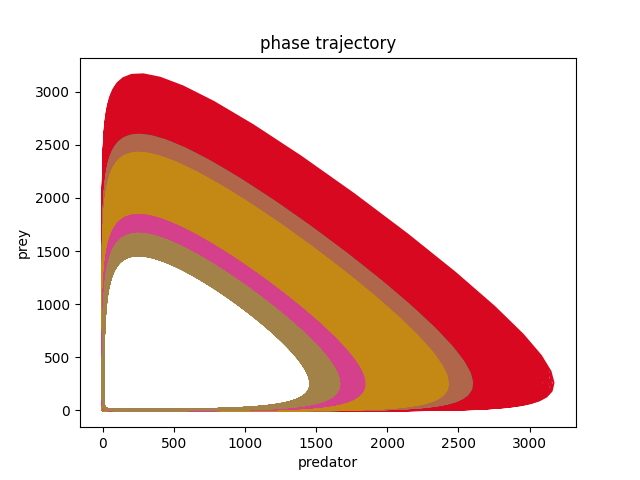
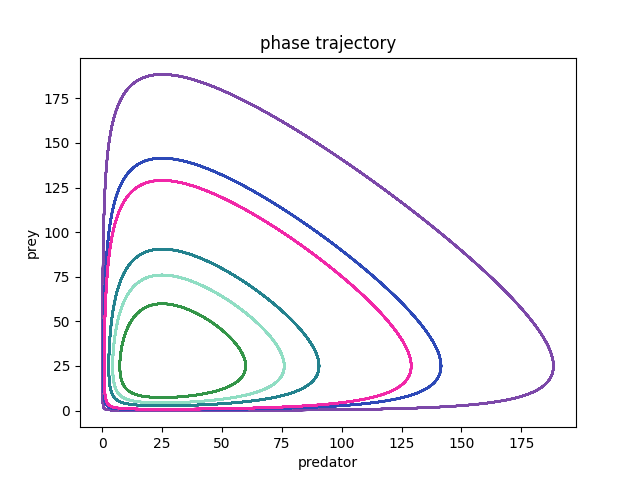
tests with task7

diff --git a/main.py b/main.py
@@ -13,4 +13,4 @@ from task10 import task10
 
 if __name__ == '__main__':
 
-    task2.run()
+    task7.run()
